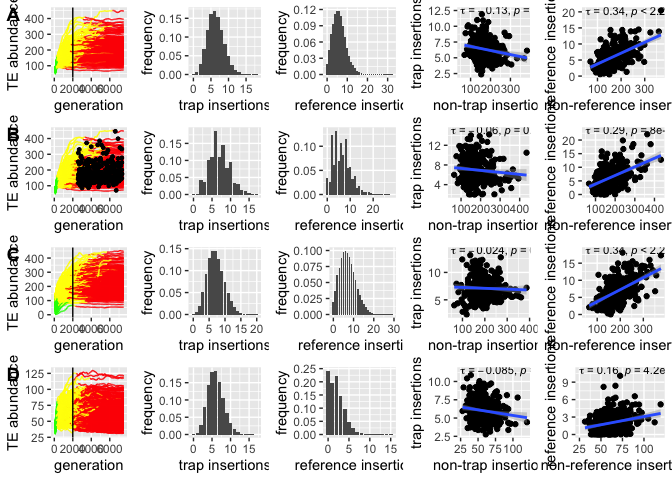
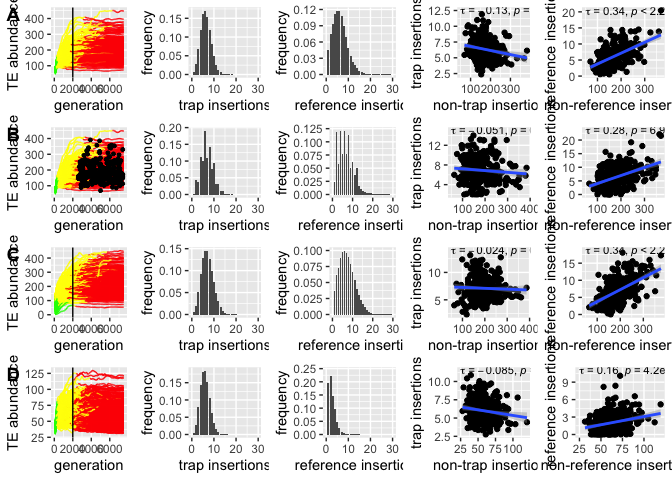
revision: adjust x-axis scale of histograms

diff --git a/rmd-scripts/main-simulation.md b/rmd-scripts/main-simulation.md
@@ -47,7 +47,7 @@ for (sid in unique(t$abundance)) {
 ts<-unique(subset(t,select=c("abundance","sum")))
 ts$rel<-ts$sum/sum(ts$sum)
 
-histo<-ggplot(ts, aes(x=abundance, y=rel)) + geom_bar(stat = "identity")+ylab("frequency")+xlab("trap insertions")
+histo<-ggplot(ts, aes(x=abundance, y=rel)) + geom_bar(stat = "identity")+ylab("frequency")+xlab("trap insertions")+xlim(0,30)
 
 t<-subset(tally,generation==gentx)
 t<-subset(t,type=="ref")
@@ -61,7 +61,7 @@ for (sid in unique(t$abundance)) {
 ts<-unique(subset(t,select=c("abundance","sum")))
 ts$rel<-ts$sum/sum(ts$sum)
 
-historef<-ggplot(ts, aes(x=abundance, y=rel)) + geom_bar(stat = "identity")+ylab("frequency")+xlab("reference insertions")
+historef<-ggplot(ts, aes(x=abundance, y=rel)) + geom_bar(stat = "identity")+ylab("frequency")+xlab("reference insertions")+xlim(0,30)
 
 
 output<-read.table("/Users/filipwierzbicki/Desktop/trap_model/analysis/simulations/storm2/constant-u/run3-seed/combined/output-constant_u")
@@ -107,6 +107,12 @@ gconsu<-ggarrange(trajectories,histo,historef, correlationC, correlationR,
 ```
 
     ## Warning: Removed 7500 row(s) containing missing values (geom_path).
+
+    ## Warning: Removed 1 rows containing missing values (geom_bar).
+
+    ## Warning: Removed 2 rows containing missing values (position_stack).
+
+    ## Warning: Removed 2 rows containing missing values (geom_bar).
 
 ``` r
 ############################
@@ -207,7 +213,7 @@ for (sid in unique(t$abundance)) {
 ts<-unique(subset(t,select=c("abundance","sum")))
 ts$rel<-ts$sum/sum(ts$sum)
 
-histo<-ggplot(ts, aes(x=abundance, y=rel)) + geom_bar(stat = "identity")+ylab("frequency")+xlab("trap insertions")
+histo<-ggplot(ts, aes(x=abundance, y=rel)) + geom_bar(stat = "identity")+ylab("frequency")+xlab("trap insertions")+xlim(0,30)
 
 
 
@@ -226,7 +232,7 @@ for (sid in unique(t$abundance)) {
 ts<-unique(subset(t,select=c("abundance","sum")))
 ts$rel<-ts$sum/sum(ts$sum)
 
-historef<-ggplot(ts, aes(x=abundance, y=rel)) + geom_bar(stat = "identity")+ylab("frequency")+xlab("reference insertions")
+historef<-ggplot(ts, aes(x=abundance, y=rel)) + geom_bar(stat = "identity")+ylab("frequency")+xlab("reference insertions")+xlim(0,30)
 
 
 
@@ -236,6 +242,10 @@ gvart<-ggarrange(trajectories,histo,historef, correlationC, correlationR,
 ```
 
     ## Warning: Removed 7500 row(s) containing missing values (geom_path).
+
+    ## Warning: Removed 1 rows containing missing values (geom_bar).
+    
+    ## Warning: Removed 1 rows containing missing values (geom_bar).
 
 ``` r
 ###############
@@ -261,7 +271,7 @@ for (sid in unique(t$abundance)) {
 ts<-unique(subset(t,select=c("abundance","sum")))
 ts$rel<-ts$sum/sum(ts$sum)
 
-histo<-ggplot(ts, aes(x=abundance, y=rel)) + geom_bar(stat = "identity")+ylab("frequency")+xlab("trap insertions")
+histo<-ggplot(ts, aes(x=abundance, y=rel)) + geom_bar(stat = "identity")+ylab("frequency")+xlab("trap insertions")+xlim(0,30)
 
 t<-subset(tally,generation==gentx)
 t<-subset(t,type=="ref")
@@ -275,7 +285,7 @@ for (sid in unique(t$abundance)) {
 ts<-unique(subset(t,select=c("abundance","sum")))
 ts$rel<-ts$sum/sum(ts$sum)
 
-historef<-ggplot(ts, aes(x=abundance, y=rel)) + geom_bar(stat = "identity")+ylab("frequency")+xlab("reference insertions")
+historef<-ggplot(ts, aes(x=abundance, y=rel)) + geom_bar(stat = "identity")+ylab("frequency")+xlab("reference insertions")+xlim(0,30)
 
 
 
@@ -325,6 +335,10 @@ gvaru<-ggarrange(trajectories,histo,historef, correlationC, correlationR,
 ```
 
     ## Warning: Removed 7500 row(s) containing missing values (geom_path).
+    
+    ## Warning: Removed 1 rows containing missing values (geom_bar).
+    
+    ## Warning: Removed 1 rows containing missing values (geom_bar).
 
 ``` r
 ##############
@@ -349,7 +363,7 @@ for (sid in unique(t$abundance)) {
 ts<-unique(subset(t,select=c("abundance","sum")))
 ts$rel<-ts$sum/sum(ts$sum)
 
-histo<-ggplot(ts, aes(x=abundance, y=rel)) + geom_bar(stat = "identity")+ylab("frequency")+xlab("trap insertions")
+histo<-ggplot(ts, aes(x=abundance, y=rel)) + geom_bar(stat = "identity")+ylab("frequency")+xlab("trap insertions")+xlim(0,30)
 
 t<-subset(tally,generation==gentx)
 t<-subset(t,type=="ref")
@@ -363,7 +377,7 @@ for (sid in unique(t$abundance)) {
 ts<-unique(subset(t,select=c("abundance","sum")))
 ts$rel<-ts$sum/sum(ts$sum)
 
-historef<-ggplot(ts, aes(x=abundance, y=rel)) + geom_bar(stat = "identity")+ylab("frequency")+xlab("reference insertions")
+historef<-ggplot(ts, aes(x=abundance, y=rel)) + geom_bar(stat = "identity")+ylab("frequency")+xlab("reference insertions")+xlim(0,30)
 
 
 output<-read.table("/Users/filipwierzbicki/Desktop/trap_model/analysis/simulations/storm2/site04xMULT/output_site04xMULT.txt")
@@ -409,6 +423,10 @@ gneg<-ggarrange(trajectories,histo,historef, correlationC, correlationR,
 ```
 
     ## Warning: Removed 7500 row(s) containing missing values (geom_path).
+    
+    ## Warning: Removed 1 rows containing missing values (geom_bar).
+    
+    ## Warning: Removed 1 rows containing missing values (geom_bar).
 
 ``` r
 #############
